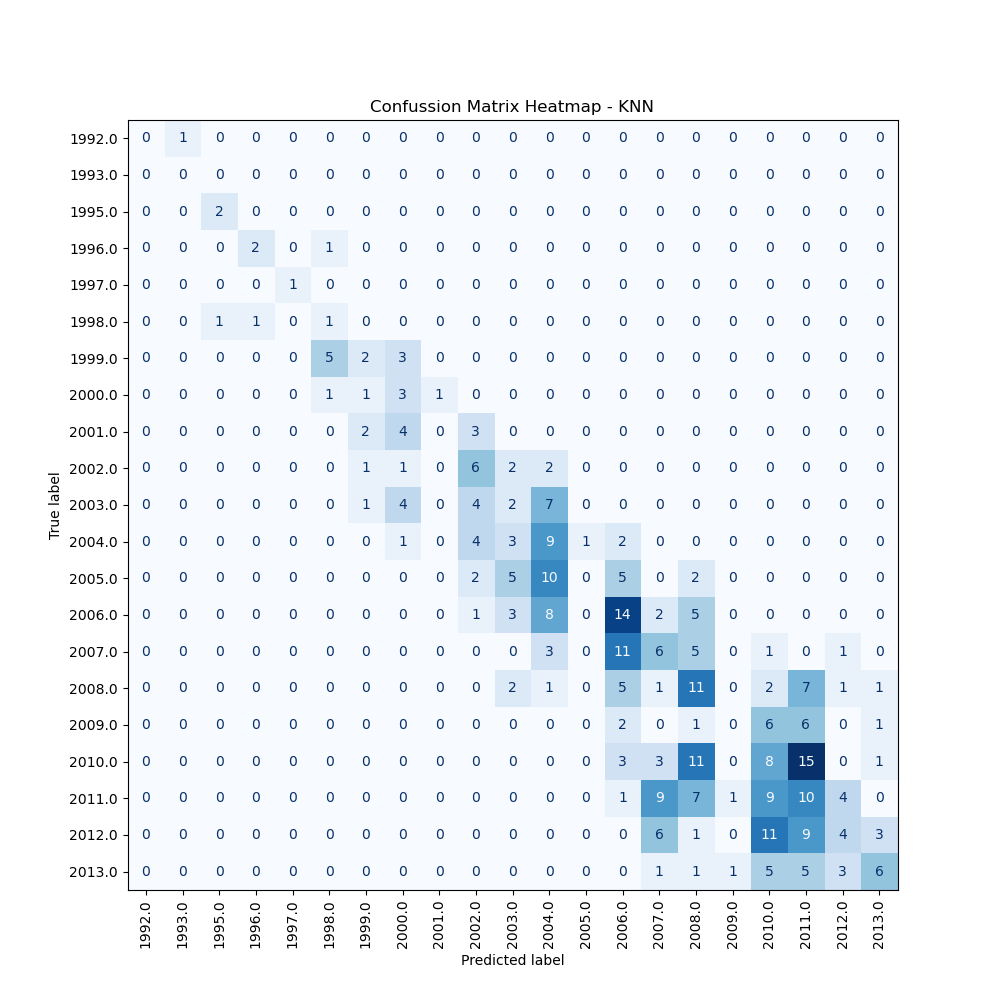
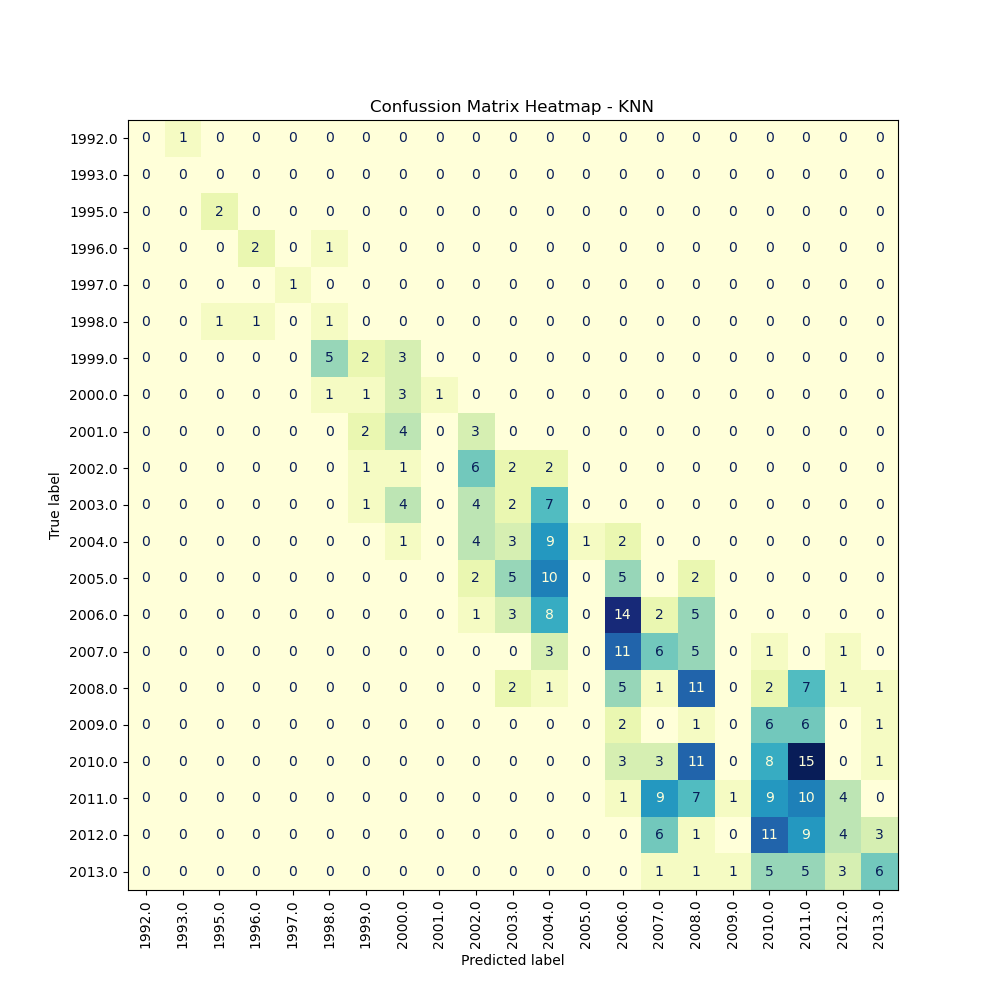
Revert "New comfussion matrix plots"
This reverts commit 5101e822c5e72a787ee4495b80a692c4ed59d011.

diff --git a/Sem 2/AUT/Report/AUT_Report_2023.tex b/Sem 2/AUT/Report/AUT_Report_2023.tex
@@ -228,81 +228,6 @@ The study aimed to copmare the performance of six classification algorithms and 
 		\caption{Domain model of the University Room Management System}
 		\label{appx:cmheatmapsvm}
 	\end{figure}
-
-    \begin{tabular}{lrrrrrrr}
-        \hline
-         Algorithm   &   CV\_Accuracy &   Accuracy &   Precision &   Recall &       F1 &   Execution Time &   Iterations \\
-        \hline
-         RFC         &      0.440845 &   0.473239 &    0.482281 & 0.473239 & 0.467693 &       0.172644   &            0 \\
-         DTC         &      0.400704 &   0.442254 &    0.449104 & 0.442254 & 0.435644 &       0.00341725 &            0 \\
-         SVM         &      0.280986 &   0.28169  &    0.253084 & 0.28169  & 0.219221 &       0.157703   &            0 \\
-         KNN         &      0.360563 &   0.357746 &    0.379279 & 0.357746 & 0.351769 &       0.00796819 &            0 \\
-         LDA         &      0.261972 &   0.24507  &    0.205744 & 0.24507  & 0.202823 &       0.00258398 &            0 \\
-         GNB         &      0.228873 &   0.205634 &    0.182054 & 0.205634 & 0.18264  &       0.00265884 &            0 \\
-         RFC         &      0.440845 &   0.473239 &    0.482281 & 0.473239 & 0.467693 &       0.170908   &            1 \\
-         DTC         &      0.400704 &   0.442254 &    0.449104 & 0.442254 & 0.435644 &       0.00406098 &            1 \\
-         SVM         &      0.280986 &   0.28169  &    0.253084 & 0.28169  & 0.219221 &       0.161214   &            1 \\
-         KNN         &      0.360563 &   0.357746 &    0.379279 & 0.357746 & 0.351769 &       0.0083189  &            1 \\
-         LDA         &      0.261972 &   0.24507  &    0.205744 & 0.24507  & 0.202823 &       0.00339317 &            1 \\
-         GNB         &      0.228873 &   0.205634 &    0.182054 & 0.205634 & 0.18264  &       0.00308394 &            1 \\
-         RFC         &      0.440845 &   0.473239 &    0.482281 & 0.473239 & 0.467693 &       0.187191   &            2 \\
-         DTC         &      0.400704 &   0.442254 &    0.449104 & 0.442254 & 0.435644 &       0.00370598 &            2 \\
-         SVM         &      0.280986 &   0.28169  &    0.253084 & 0.28169  & 0.219221 &       0.16112    &            2 \\
-         KNN         &      0.360563 &   0.357746 &    0.379279 & 0.357746 & 0.351769 &       0.00886011 &            2 \\
-         LDA         &      0.261972 &   0.24507  &    0.205744 & 0.24507  & 0.202823 &       0.00250292 &            2 \\
-         GNB         &      0.228873 &   0.205634 &    0.182054 & 0.205634 & 0.18264  &       0.00361419 &            2 \\
-        \hline
-    \end{tabular}
-        
-    \begin{tabular}{lrrrrrr}
-        \hline
-         Algorithm   &   CV\_Accuracy &   Accuracy &   Precision &   Recall &       F1 &   Execution Time \\
-        \hline
-         RFC         &      0.407746 &   0.439437 &    0.45987  & 0.439437 & 0.437043 &        1.25214   \\
-         DTC         &      0.371127 &   0.422535 &    0.435677 & 0.422535 & 0.422189 &        0.0277729 \\
-         SVM         &      0.311972 &   0.309859 &    0.2939   & 0.309859 & 0.266544 &        0.665152  \\
-         KNN         &      0.376761 &   0.36338  &    0.384735 & 0.36338  & 0.363729 &        0.0385151 \\
-         LDA         &      0.261268 &   0.24507  &    0.205744 & 0.24507  & 0.202823 &        0.0127187 \\
-         GNB         &      0.273239 &   0.24507  &    0.224912 & 0.24507  & 0.221897 &        0.0145471 \\
-         RFC         &      0.407746 &   0.439437 &    0.45987  & 0.439437 & 0.437043 &        1.25332   \\
-         DTC         &      0.371127 &   0.422535 &    0.435677 & 0.422535 & 0.422189 &        0.0303597 \\
-         SVM         &      0.311972 &   0.309859 &    0.2939   & 0.309859 & 0.266544 &        0.67257   \\
-         KNN         &      0.376761 &   0.36338  &    0.384735 & 0.36338  & 0.363729 &        0.0449691 \\
-         LDA         &      0.261268 &   0.24507  &    0.205744 & 0.24507  & 0.202823 &        0.0141079 \\
-         GNB         &      0.273239 &   0.24507  &    0.224912 & 0.24507  & 0.221897 &        0.01702   \\
-         RFC         &      0.407746 &   0.439437 &    0.45987  & 0.439437 & 0.437043 &        1.36698   \\
-         DTC         &      0.371127 &   0.422535 &    0.435677 & 0.422535 & 0.422189 &        0.0315924 \\
-         SVM         &      0.311972 &   0.309859 &    0.2939   & 0.309859 & 0.266544 &        0.686508  \\
-         KNN         &      0.376761 &   0.36338  &    0.384735 & 0.36338  & 0.363729 &        0.0410869 \\
-         LDA         &      0.261268 &   0.24507  &    0.205744 & 0.24507  & 0.202823 &        0.013967  \\
-         GNB         &      0.273239 &   0.24507  &    0.224912 & 0.24507  & 0.221897 &        0.0185232 \\
-        \hline
-    \end{tabular}
-        
-    \begin{tabular}{lrrrrrr}
-        \hline
-         Algorithm   &   CV\_Accuracy &   Accuracy &   Precision &   Recall &       F1 &   Execution Time \\
-        \hline
-         RFC         &      0.423239 &   0.459155 &    0.487308 & 0.459155 & 0.456431 &       51.2526    \\
-         DTC         &      0.378873 &   0.430986 &    0.444931 & 0.430986 & 0.428687 &        0.193149  \\
-         SVM         &      0.361972 &   0.394366 &    0.368064 & 0.394366 & 0.363465 &        3.54028   \\
-         KNN         &      0.417606 &   0.450704 &    0.465625 & 0.450704 & 0.445552 &        0.133158  \\
-         LDA         &      0.261268 &   0.24507  &    0.205744 & 0.24507  & 0.202823 &        0.0122411 \\
-         GNB         &      0.273239 &   0.24507  &    0.224912 & 0.24507  & 0.221897 &        0.015172  \\
-         RFC         &      0.423239 &   0.459155 &    0.487308 & 0.459155 & 0.456431 &       52.1694    \\
-         DTC         &      0.378873 &   0.430986 &    0.444931 & 0.430986 & 0.428687 &        0.204587  \\
-         SVM         &      0.361972 &   0.394366 &    0.368064 & 0.394366 & 0.363465 &        3.50349   \\
-         KNN         &      0.417606 &   0.450704 &    0.465625 & 0.450704 & 0.445552 &        0.154317  \\
-         LDA         &      0.261268 &   0.24507  &    0.205744 & 0.24507  & 0.202823 &        0.0139561 \\
-         GNB         &      0.273239 &   0.24507  &    0.224912 & 0.24507  & 0.221897 &        0.018435  \\
-         RFC         &      0.423239 &   0.459155 &    0.487308 & 0.459155 & 0.456431 &       56.1888    \\
-         DTC         &      0.378873 &   0.430986 &    0.444931 & 0.430986 & 0.428687 &        0.209001  \\
-         SVM         &      0.361972 &   0.394366 &    0.368064 & 0.394366 & 0.363465 &        3.53441   \\
-         KNN         &      0.417606 &   0.450704 &    0.465625 & 0.450704 & 0.445552 &        0.142963  \\
-         LDA         &      0.261268 &   0.24507  &    0.205744 & 0.24507  & 0.202823 &        0.0146387 \\
-         GNB         &      0.273239 &   0.24507  &    0.224912 & 0.24507  & 0.221897 &        0.0194271 \\
-        \hline
-    \end{tabular}
 \newpage
 \bibliographystyle{IEEEtran}
 \bibliography{ref}
